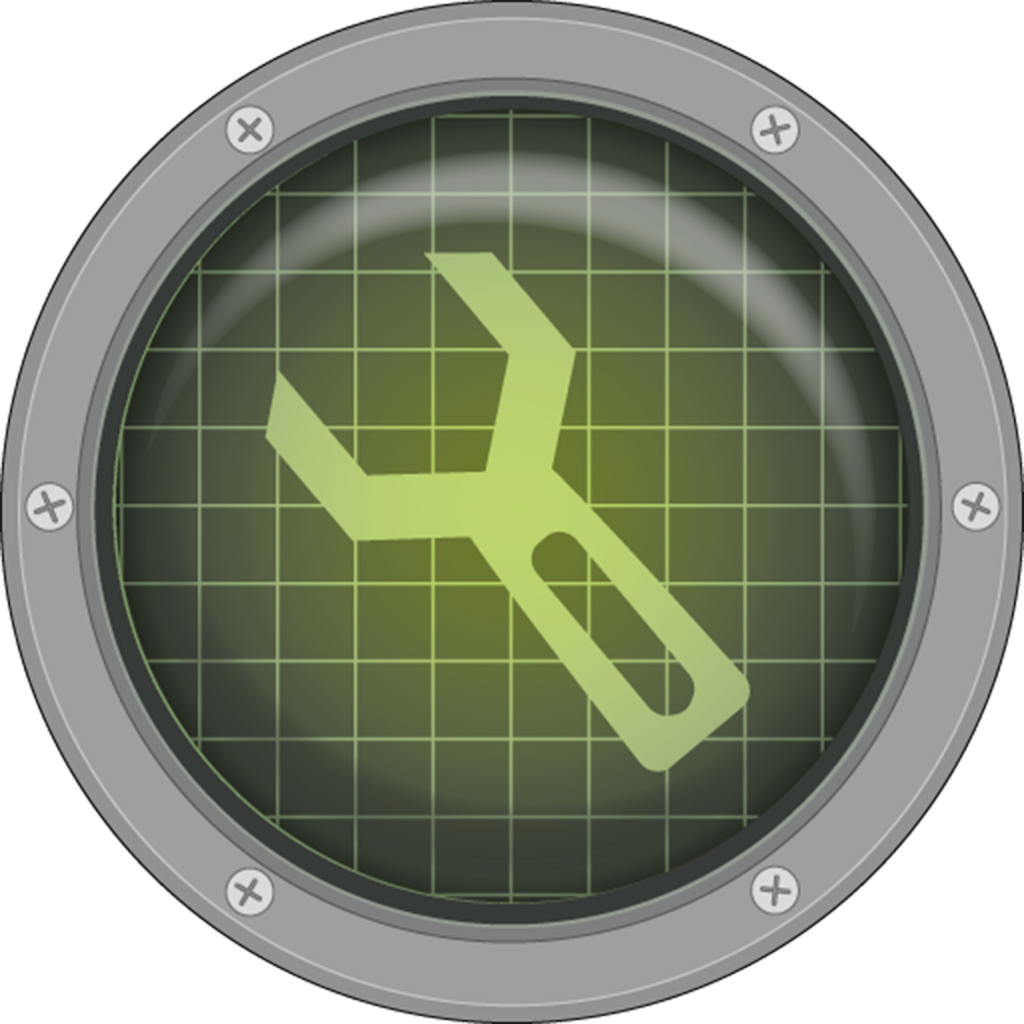
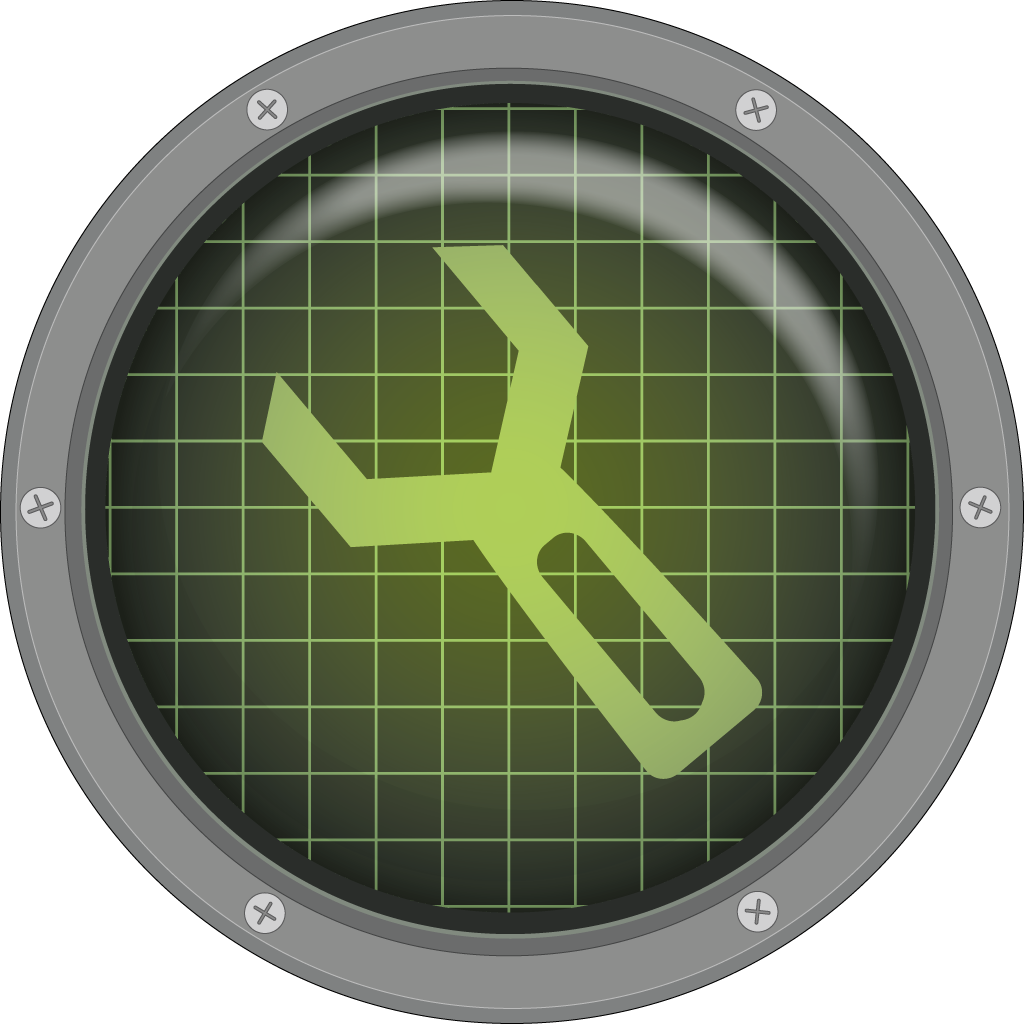
retina graphics support

diff --git a/Classes/ElasticsAppDelegate.m b/Classes/ElasticsAppDelegate.m
@@ -193,14 +193,14 @@ static NSImage *_brImage;
 								  //infoParagraphStyle, NSParagraphStyleAttributeName,
 								  nil] retain];
 	
-	if (!_statusItemImage)		    _statusItemImage = [NSImage imageNamed:@"StatusItem.png"];
-	if (!_statusItemAlertImage)	    _statusItemAlertImage = [NSImage imageNamed:@"StatusItemAlert.png"];
+	if (!_statusItemImage)		    _statusItemImage = [NSImage imageNamed:@"StatusItem"];
+	if (!_statusItemAlertImage)	    _statusItemAlertImage = [NSImage imageNamed:@"StatusItemAlert"];
 	
-	if (!_usImage)	                _usImage = [NSImage imageNamed:@"US.png"];
-	if (!_euImage)	                _euImage = [NSImage imageNamed:@"EU.png"];
-	if (!_sgImage)	                _sgImage = [NSImage imageNamed:@"SG.png"];
-	if (!_jpImage)	                _jpImage = [NSImage imageNamed:@"JP.png"];
-	if (!_brImage)	                _brImage = [NSImage imageNamed:@"BR.png"];
+	if (!_usImage)	                _usImage = [NSImage imageNamed:@"US"];
+	if (!_euImage)	                _euImage = [NSImage imageNamed:@"EU"];
+	if (!_sgImage)	                _sgImage = [NSImage imageNamed:@"SG"];
+	if (!_jpImage)	                _jpImage = [NSImage imageNamed:@"JP"];
+	if (!_brImage)	                _brImage = [NSImage imageNamed:@"BR"];
 }
 
 - (void)applicationDidFinishLaunching:(NSNotification *)notification
@@ -556,17 +556,17 @@ static NSImage *_brImage;
 
 - (NSMenuItem *)progressMessageItemWithTitle:(NSString *)title
 {
-	return [self messageItemWithTitle:title image:[NSImage imageNamed:@"Progress.png"]];
+	return [self messageItemWithTitle:title image:[NSImage imageNamed:@"Progress"]];
 }
 	 
 - (NSMenuItem *)errorMessageItemWithTitle:(NSString *)title
 {
-	return [self messageItemWithTitle:title image:[NSImage imageNamed:@"Error.png"]];
+	return [self messageItemWithTitle:title image:[NSImage imageNamed:@"Error"]];
 }
 
 - (NSMenuItem *)notificationMessageItemWithTitle:(NSString *)title
 {
-	return [self messageItemWithTitle:title image:[NSImage imageNamed:@"Notification.png"]];
+	return [self messageItemWithTitle:title image:[NSImage imageNamed:@"Notification"]];
 }
 
 - (NSMenuItem *)instanceItemWithInstance:(EC2Instance *)instance
@@ -582,22 +582,22 @@ static NSImage *_brImage;
 	NSImage *stateImage = nil;
 //	if (instance.instanceState.code == EC2_INSTANCE_STATE_RUNNING_272) {
 //		// special running state with 0x100 bit set to indicate problems with the host
-//		stateImage = [NSImage imageNamed:@"InstanceStateRunning272.png"];
+//		stateImage = [NSImage imageNamed:@"InstanceStateRunning272"];
 //	}
 //	else {
 //		// otherwise, according to API spec, high byte should be ignored
 		switch (instance.instanceState.code & 0xFF) {
 			case EC2_INSTANCE_STATE_RUNNING:
-				stateImage = [NSImage imageNamed:@"InstanceStateRunning.png"];
+				stateImage = [NSImage imageNamed:@"InstanceStateRunning"];
 				break;
 			case EC2_INSTANCE_STATE_STOPPED:
-				stateImage = [NSImage imageNamed:@"InstanceStateStopped.png"];
+				stateImage = [NSImage imageNamed:@"InstanceStateStopped"];
 				break;
 			case EC2_INSTANCE_STATE_TERMINATED:
-				stateImage = [NSImage imageNamed:@"InstanceStateTerminated.png"];
+				stateImage = [NSImage imageNamed:@"InstanceStateTerminated"];
 				break;
 			default:
-				stateImage = [NSImage imageNamed:@"InstanceStateOther.png"];
+				stateImage = [NSImage imageNamed:@"InstanceStateOther"];
 				break;
 		}
 //	}
@@ -978,7 +978,7 @@ static NSImage *_brImage;
                 for (NSMenuItem *menuItem in [_statusMenu itemArray]) {
                     // instanse items have negative tag
                     if ([menuItem tag] < 0) {
-                        [menuItem setImage:[NSImage imageNamed:@"InstanceStateRefreshing.png"]];
+                        [menuItem setImage:[NSImage imageNamed:@"InstanceStateRefreshing"]];
                         [menuItem setSubmenu:nil];
                     }
                 }

diff --git a/ElasticsPreferences/Classes/AppDelegate.m b/ElasticsPreferences/Classes/AppDelegate.m
@@ -20,9 +20,6 @@ enum {
     kConnectionsPaneIndex,
 };
 
-//#define GENERAL_PANE_INDEX				0
-//#define ADVANCED_PANE_INDEX				1
-
 #define PANE_SWITCH_ANIMATION_DURATION	0.25
 
 static NSString *const kElasticsWebsiteURL      = @"http://tundrabot.com";
